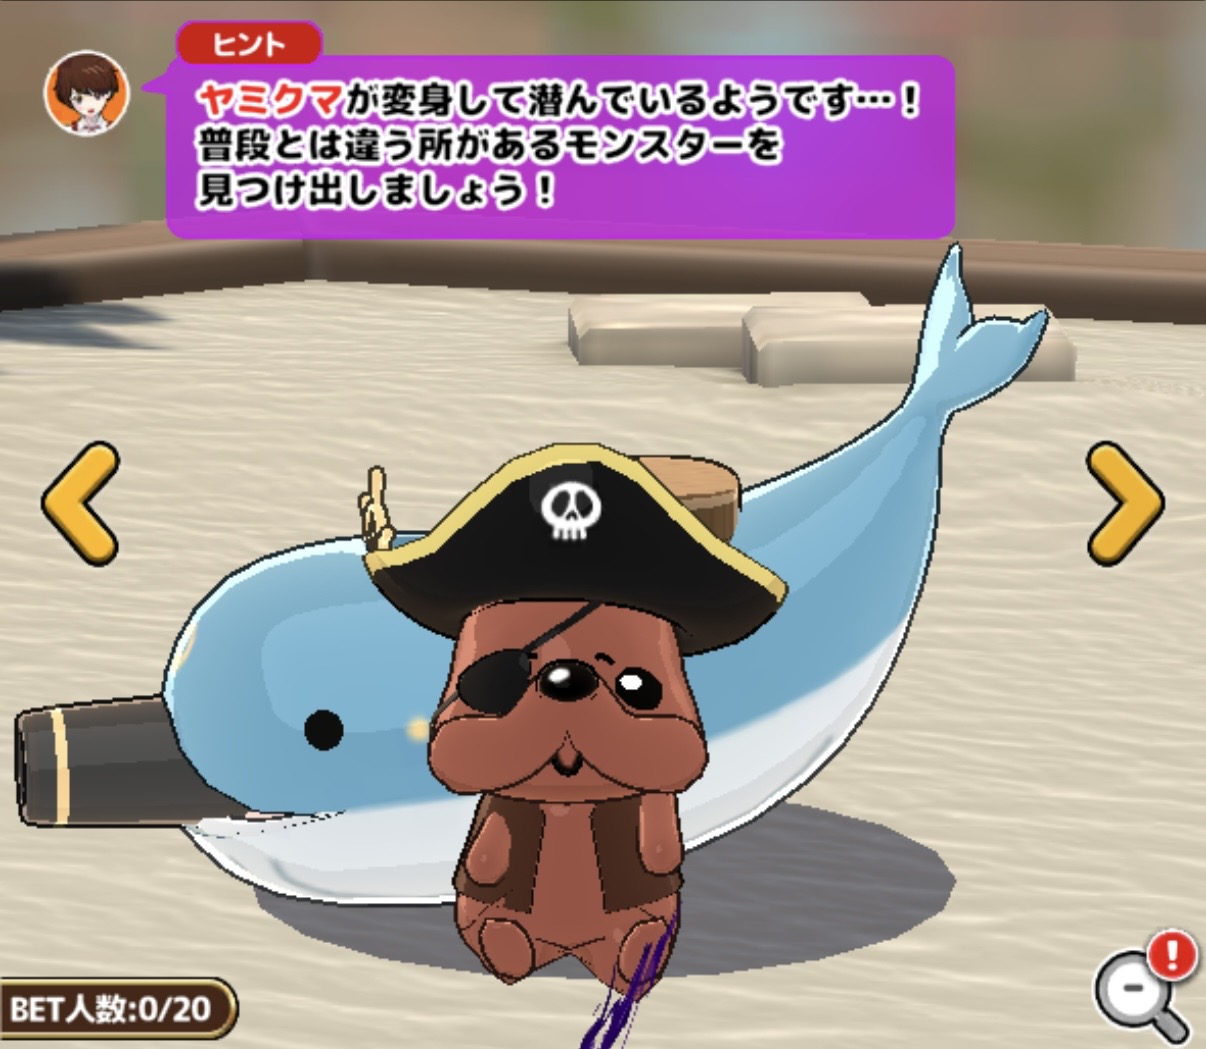
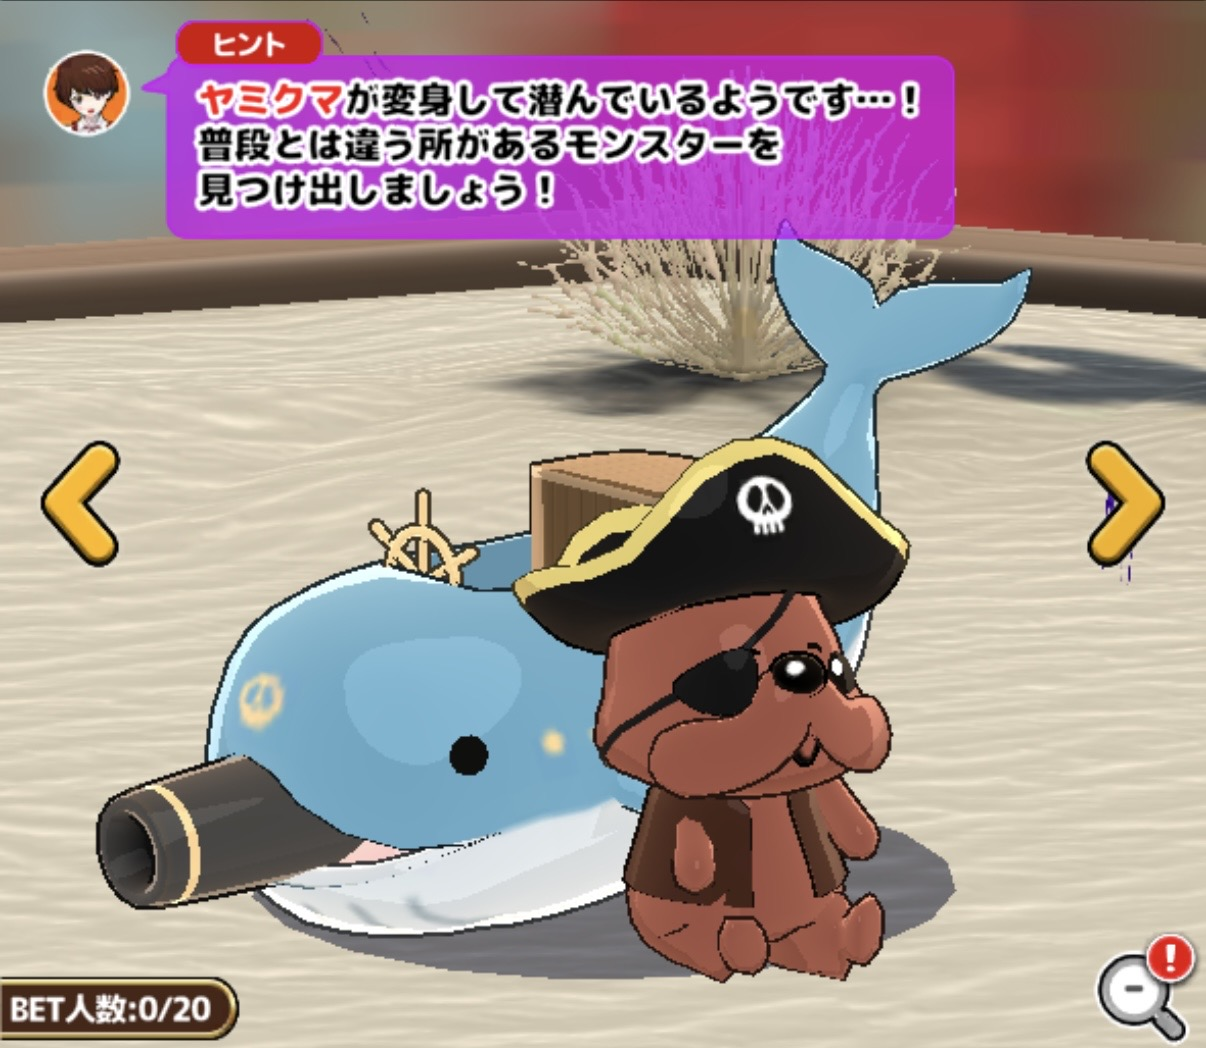
情報更新

diff --git a/index.html b/index.html
@@ -37,7 +37,7 @@
   <link rel="preconnect" href="https://fonts.googleapis.com">
   <link rel="preconnect" href="https://fonts.gstatic.com" crossorigin>
   <link href="https://fonts.googleapis.com/css2?family=Dela+Gothic+One&family=Zen+Antique&family=Noto+Sans+JP:wght@400;500;700;900&display=swap" rel="stylesheet">
-  <link rel="stylesheet" href="style.css?v=0.6.7">
+  <link rel="stylesheet" href="style.css?v=0.6.8">
 </head>
 <body>
 
@@ -215,8 +215,8 @@
     </svg>
   </div>
 
-  <script src="data-normal.js?v=0.6.7" defer></script>
-  <script src="data-anomaly.js?v=0.6.7" defer></script>
-  <script src="script.js?v=0.6.7" defer></script>
+  <script src="data-normal.js?v=0.6.8" defer></script>
+  <script src="data-anomaly.js?v=0.6.8" defer></script>
+  <script src="script.js?v=0.6.8" defer></script>
 </body>
 </html>

diff --git a/data-anomaly.js b/data-anomaly.js
@@ -440,14 +440,19 @@ const ANOMALY_DATA = {
   ],
   m23: [
     {
-      note: "砲口",
-      point: "クジラの砲口がなくなっている。",
-      compareIndex: 2
+      note: "サイズ",
+      point: "クジラのサイズが小さくなっている。",
+      compareIndex: 1
     },
     {
       note: "サイズ",
       point: "クジラのサイズが小さくなっている。",
-      compareIndex: 1
+      compareIndex: 2
+    },
+    {
+      note: "砲口",
+      point: "クジラの砲口がなくなっている。",
+      compareIndex: 2
     },
   ],
 };
